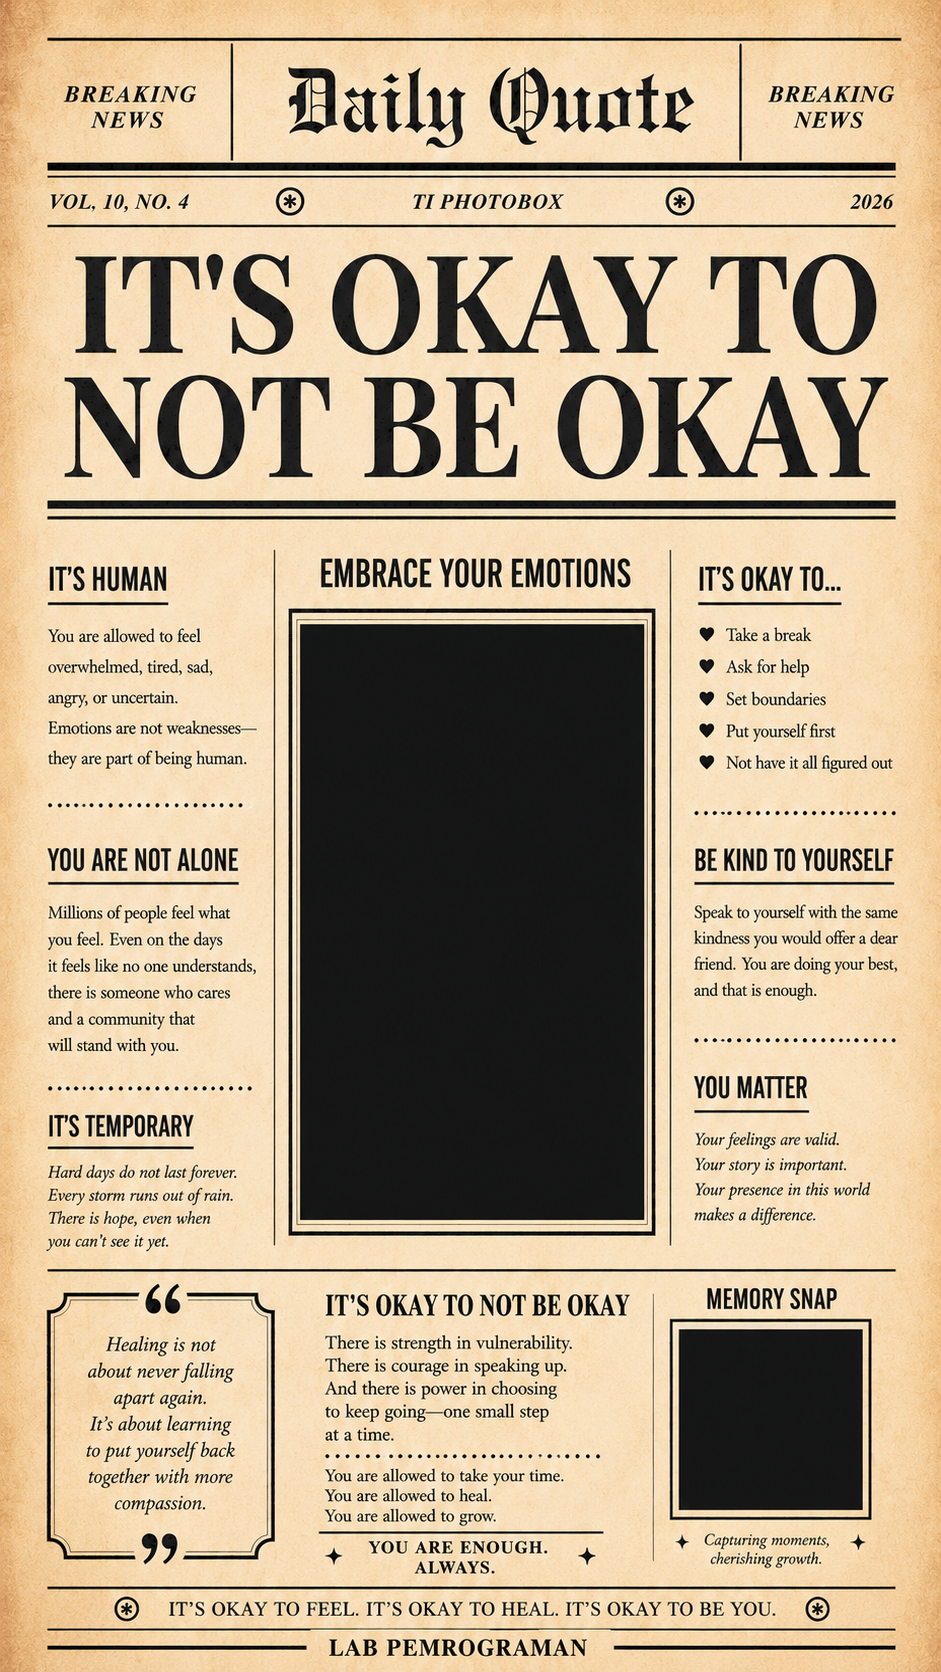
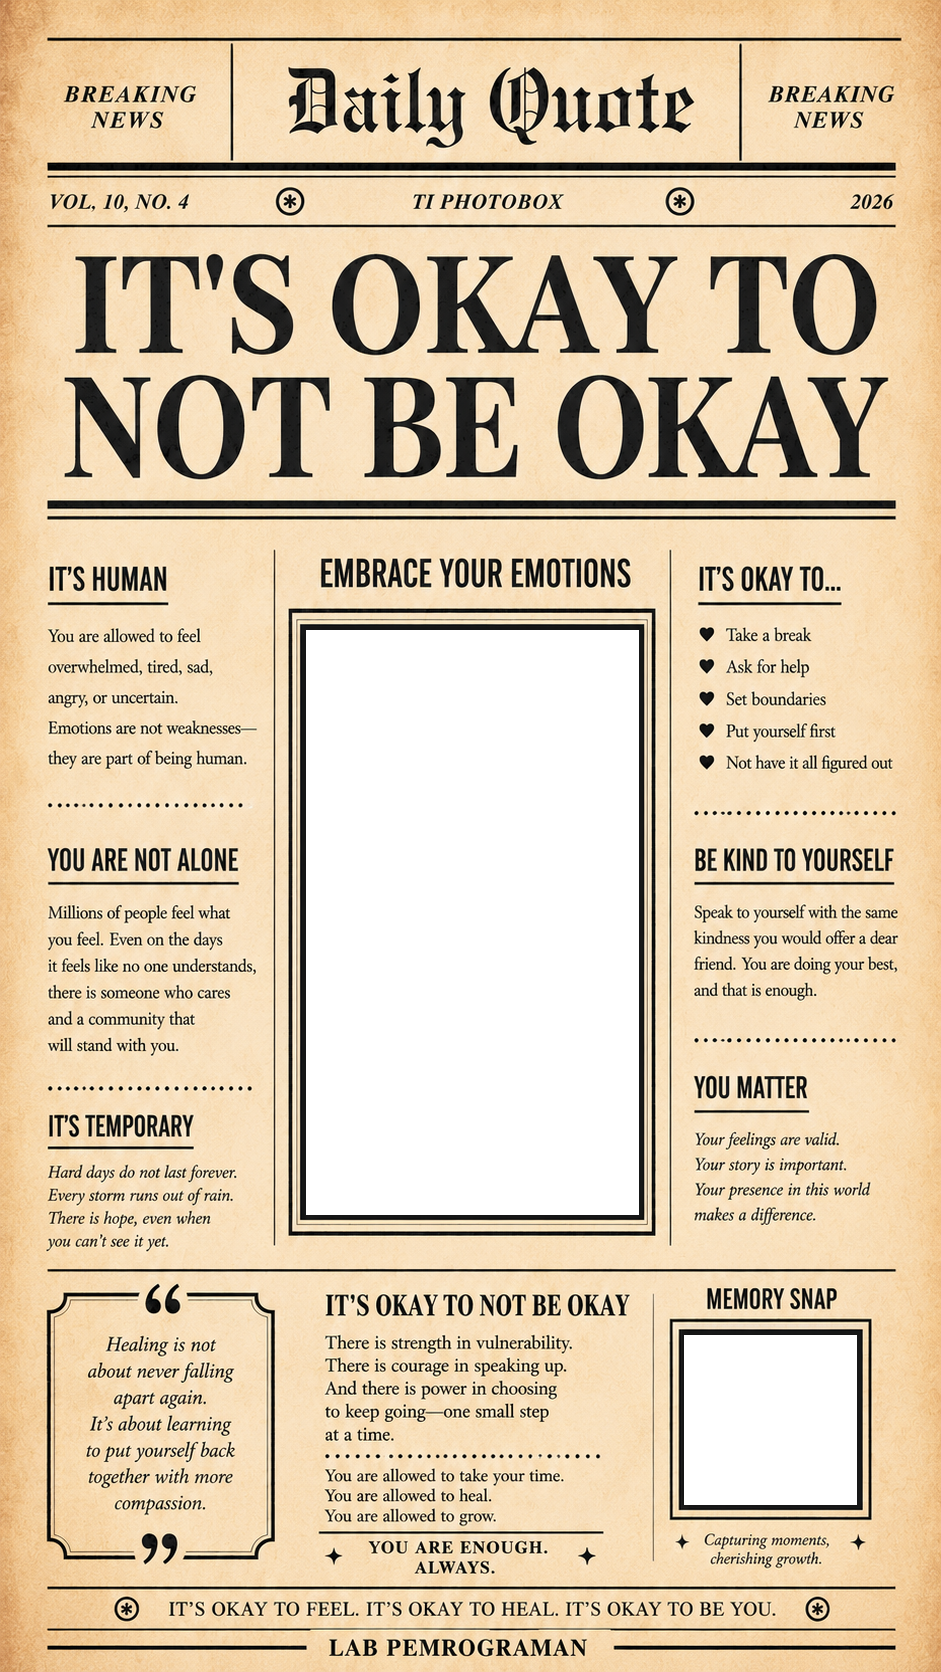
Add files via upload

Changed region(s): [[0.3082, 0.3732, 0.678, 0.7464], [0.7088, 0.7775, 0.9245, 0.9019]]

diff --git a/README.md b/README.md
@@ -173,3 +173,15 @@ Perubahan:
 - Menambahkan pilihan layout baru: Strip 3.
 - Opsi layout kini akan menyesuaikan dukungan masing-masing template.
 - Jika template tidak mendukung jumlah foto tertentu, pilihan layout itu otomatis dinonaktifkan.
+
+
+## Update v21 – Perbaikan 3 Template Terbaru
+
+Perubahan:
+- Area hitam/photo window pada template:
+  - TI UMY Friendship
+  - Daily Quote
+  - IT Future
+  sekarang sudah dibuat transparan.
+- Foto yang dirender di belakang template kini bisa terlihat.
+- Border foto tetap disisakan agar hasil lebih natural.
